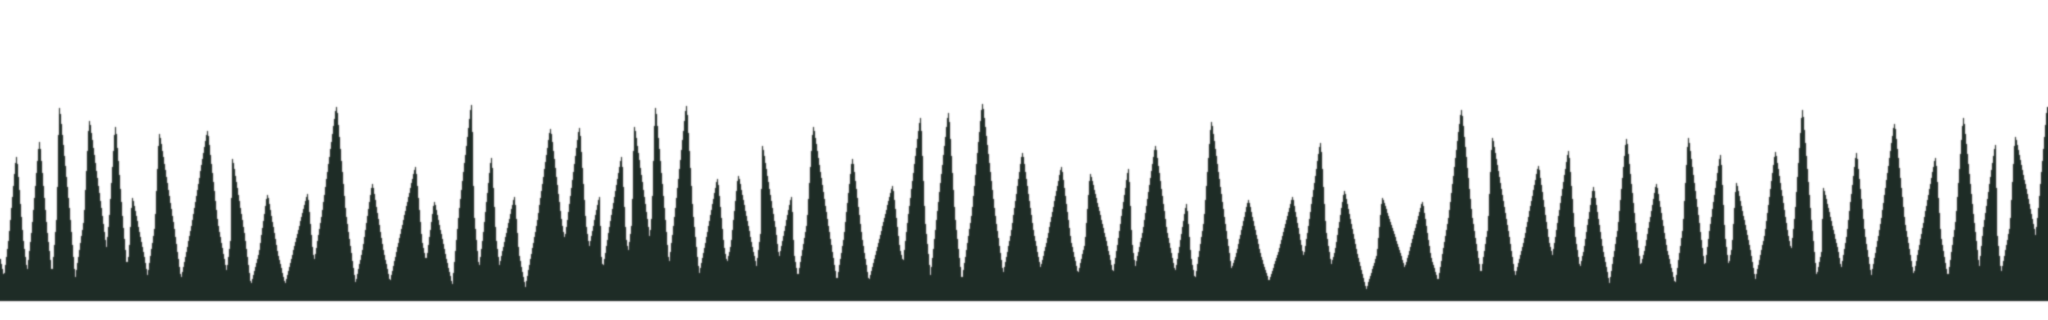
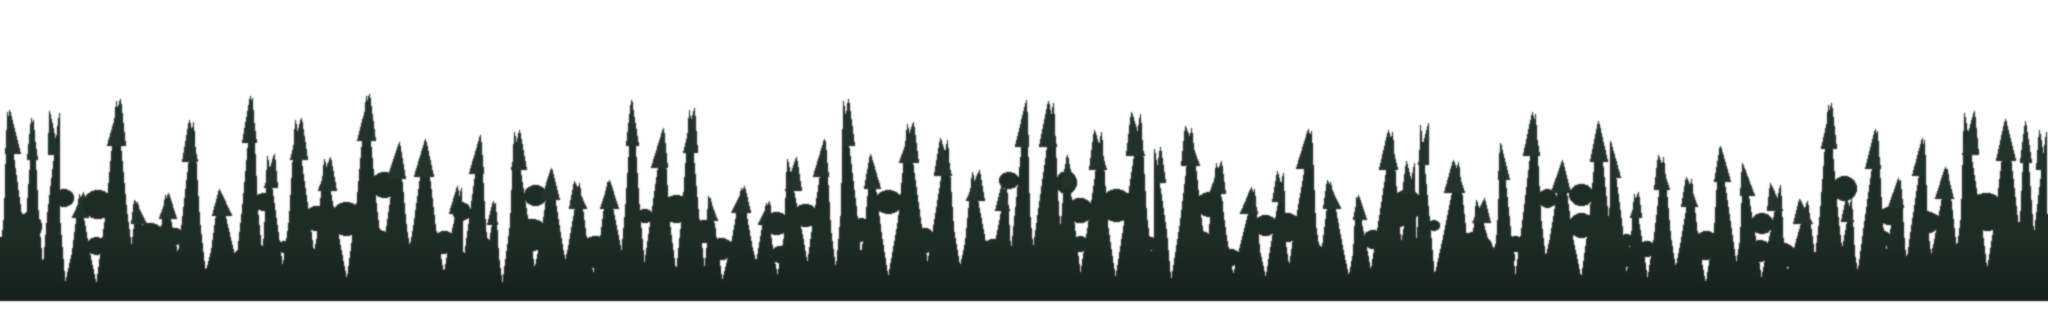
fix(demo): 树线生成器广播维度修复——新版双冠树线贴图真正落盘

Changed region(s): [[0.0, 0.3125, 1.0, 0.875]]

diff --git a/stick-world/tools/ai/gen_sky_decor.py b/stick-world/tools/ai/gen_sky_decor.py
@@ -145,7 +145,7 @@ def _tree_ridge(rnd, base_y, h, color, W=2048, H=320):
 	# 底部体积渐变（numpy 按深度乘暗：保留树干间隙的透气感，不做实心底带）
 	arr = np.asarray(out, dtype=np.float32)
 	Hh = arr.shape[0]
-	yy = np.arange(Hh)[:, None]
+	yy = np.arange(Hh)[:, None, None]  # (H,1,1)：对 (H,W,3) 逐行广播
 	fade_start = base_y - h * 0.35
 	dark = np.clip(1.0 - 0.28 * np.clip((yy - fade_start) / max(base_y - fade_start, 1), 0, 1), 0.72, 1.0)
 	arr[..., 0:3] *= dark
